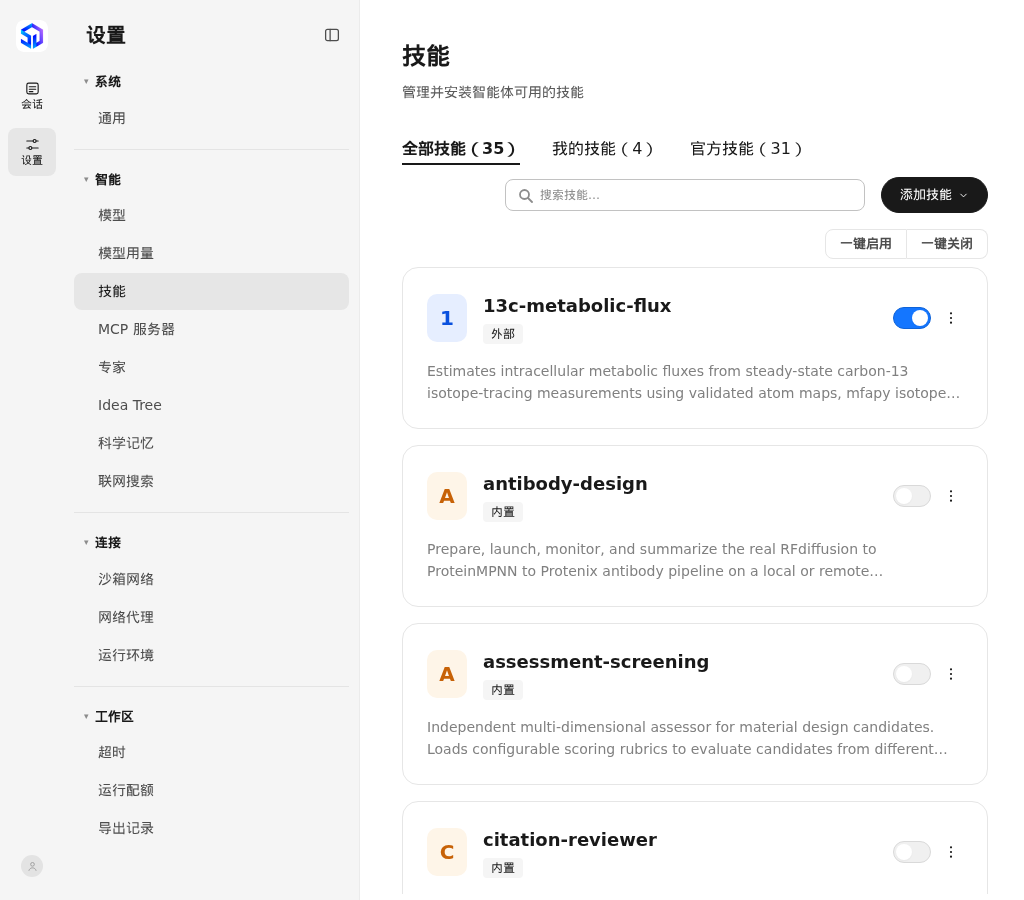
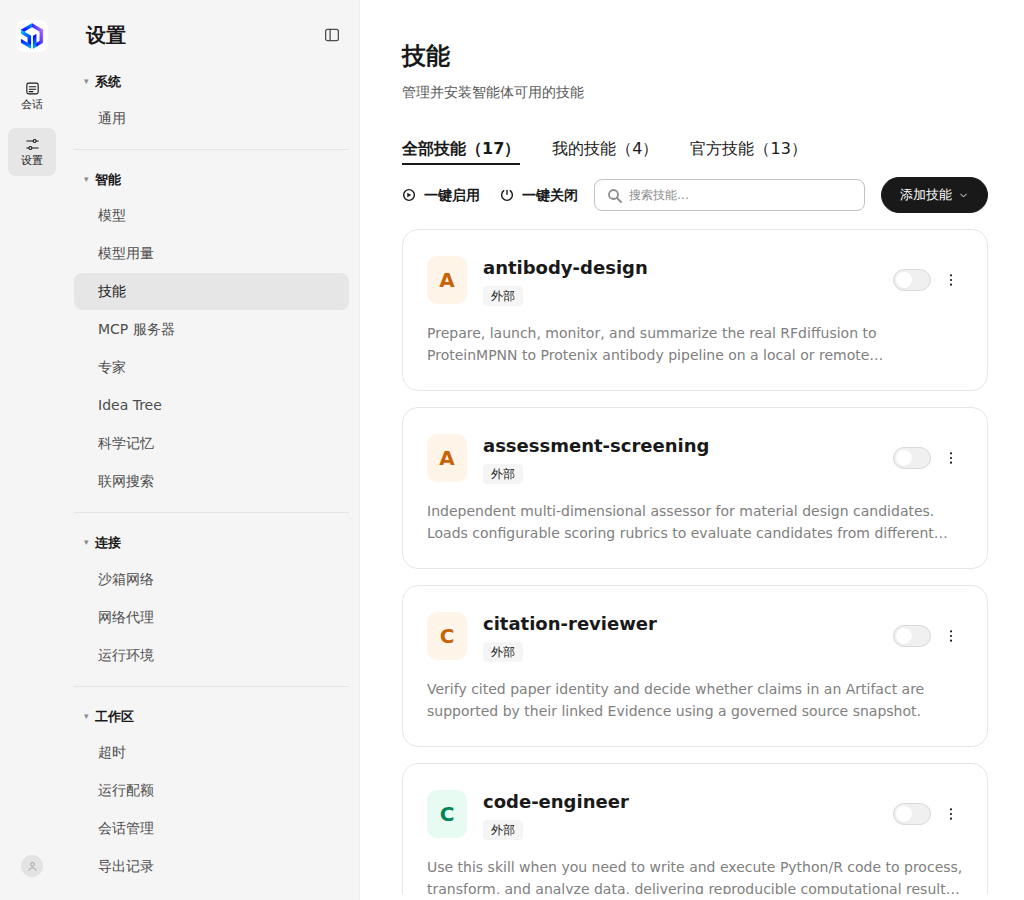
fix(desktop): keep the skills bulk pair on the handoff's toolbar line
The pair moved into the toolbar beside the tabs, but the toolbar wraps and
the search field held a 360px width, so at the default 1440 window the whole
right-hand group dropped below the tabs — the handoff draws tabs, the pair,
the search and 添加技能 on one line.

From 1400px up the row no longer wraps and the group may shrink; the search
takes the loss (360 → ~258px at 1440, ~218px in English) and the pair's labels
stay on one line. Narrower windows keep the wrapped layout, and the group now
gives width up there too instead of pushing 添加技能 past the pane's edge.

The six list frames are re-captured on this head at 1440/1200/1024 in both
languages.

diff --git a/apps/desktop/src/styles/settings.css b/apps/desktop/src/styles/settings.css
@@ -84,6 +84,7 @@
 .settings-bulk.is-toolbar { gap: 20px; margin: 0; }
 .settings-bulk.is-toolbar .bulk-button {
   display: inline-flex;
+  flex: none;
   align-items: center;
   gap: 8px;
   height: 32px;
@@ -93,6 +94,9 @@
   background: none;
   color: #191919;
   font-size: 14px;
+  /* The pair shares one line with the tabs and the search: a label that wrapped
+     inside its own button would make the two writes read as one column of text. */
+  white-space: nowrap;
 }
 .settings-bulk.is-toolbar .bulk-button:hover:not(:disabled) { background: none; color: #000; }
 .settings-bulk.is-toolbar .bulk-button:active:not(:disabled) { background: none; }
@@ -835,6 +839,15 @@ a.secondary-button {
   gap: 12px 24px;
   margin: 0 0 16px;
 }
+/* The handoff draws tabs, the bulk pair, the search and 添加技能 on one line.
+   From the default window up, the row keeps that line by letting the search
+   give up width instead of the whole right-hand group dropping below the tabs;
+   narrower windows wrap, where one line cannot hold them at a usable search. */
+@media (min-width: 1400px) {
+  .skill-toolbar { flex-wrap: nowrap; }
+  .skill-toolbar-end { flex: 1 1 auto; justify-content: flex-end; }
+  .skill-toolbar .skill-search-field { min-width: 150px; }
+}
 .skill-tabs { display: flex; align-items: flex-end; gap: 32px; }
 .skill-tab {
   position: relative;
@@ -863,6 +876,10 @@ a.secondary-button {
   align-items: center;
   gap: 16px;
   margin-left: auto;
+  /* The group is allowed to give up width to the search: without this its
+     automatic minimum keeps the row at its content width and pushes
+     添加技能 past the pane's right edge on a narrow window. */
+  min-width: 0;
 }
 .skill-search-field {
   position: relative;
